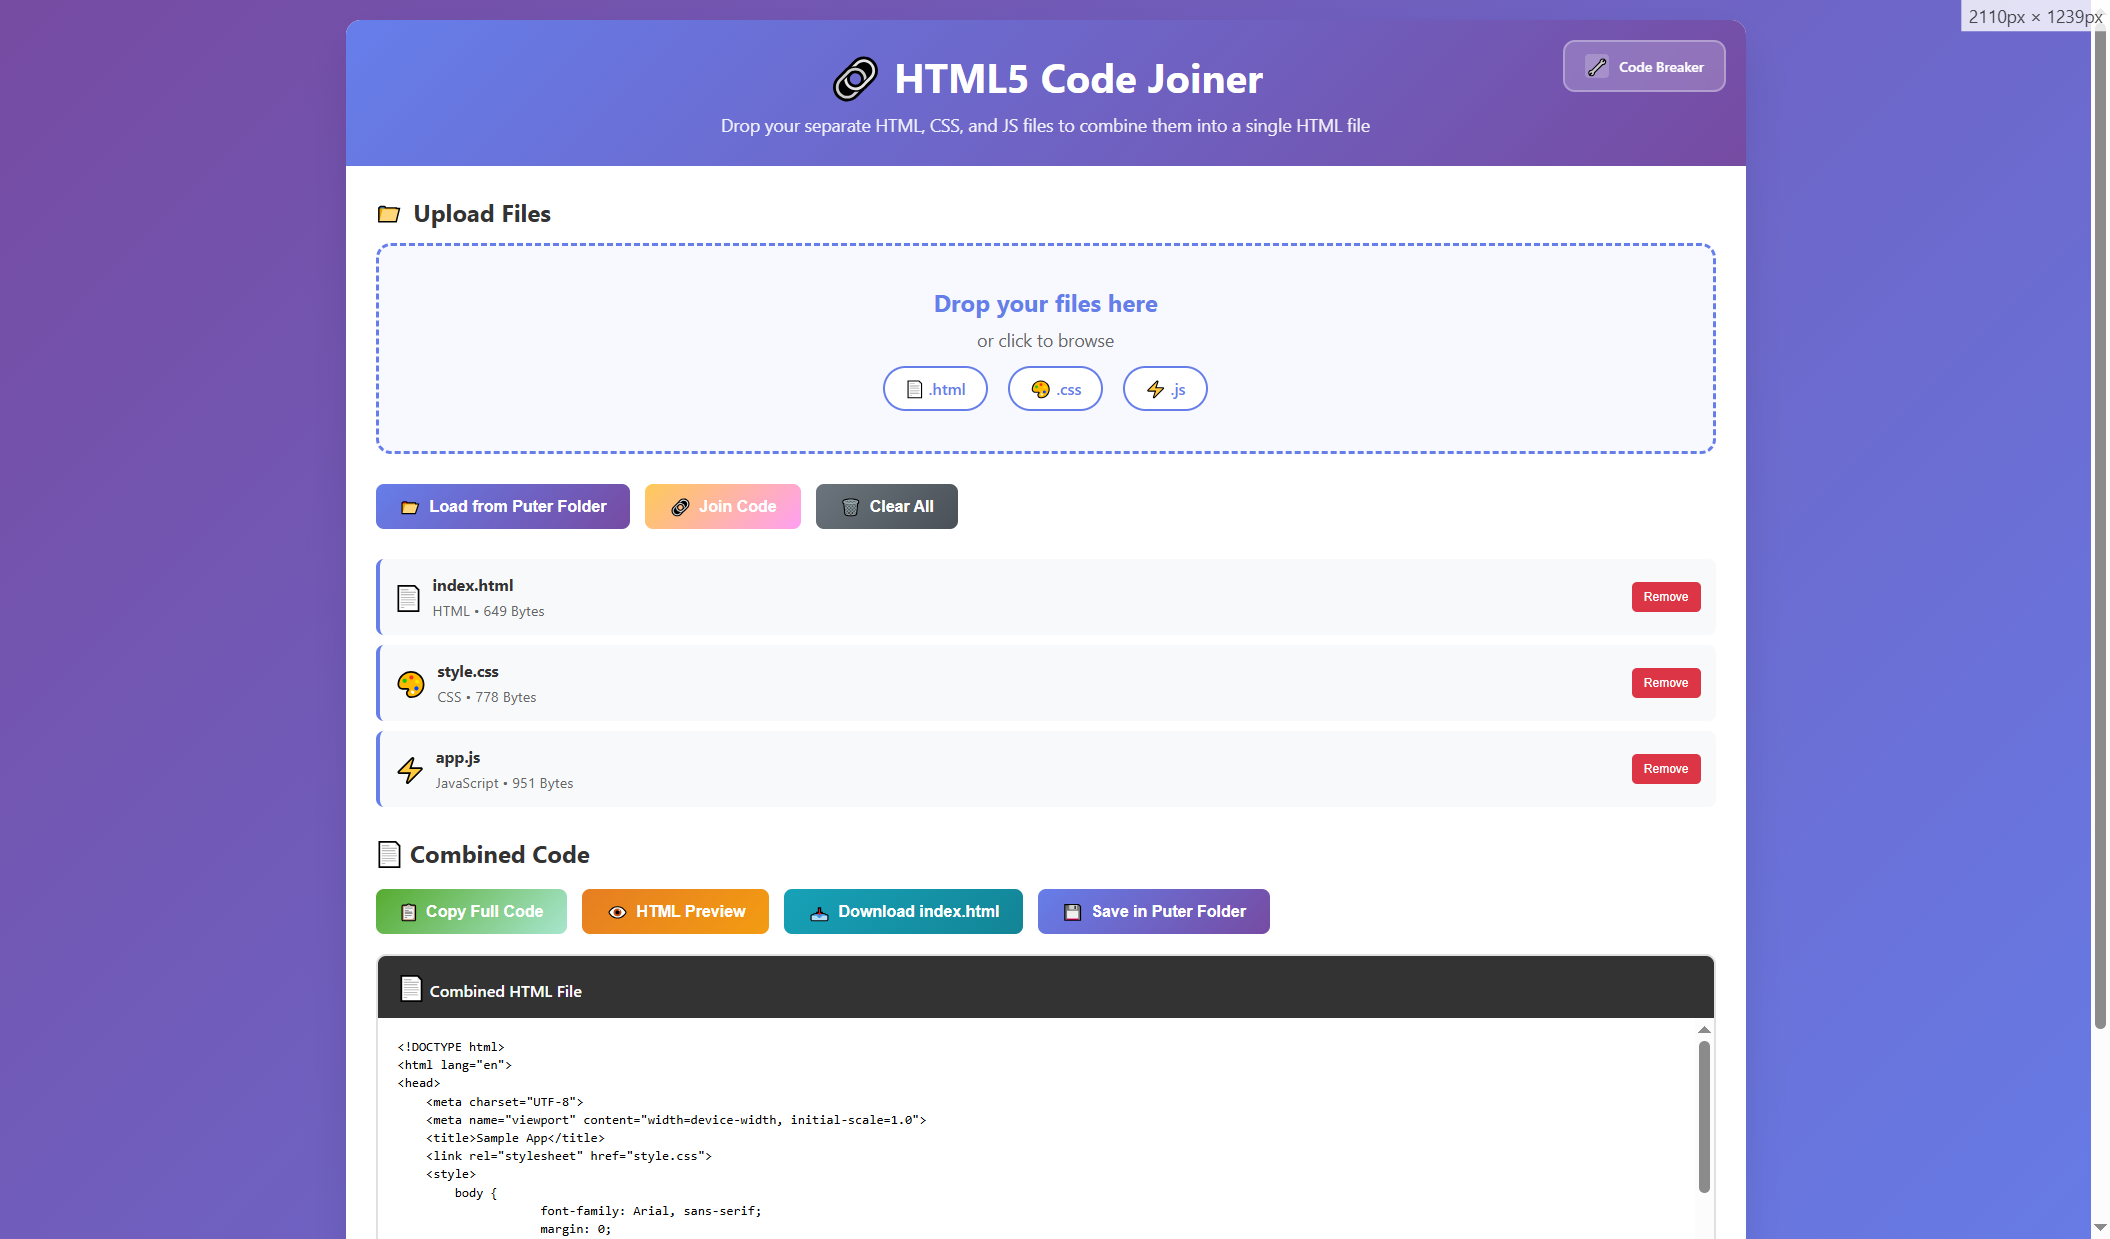
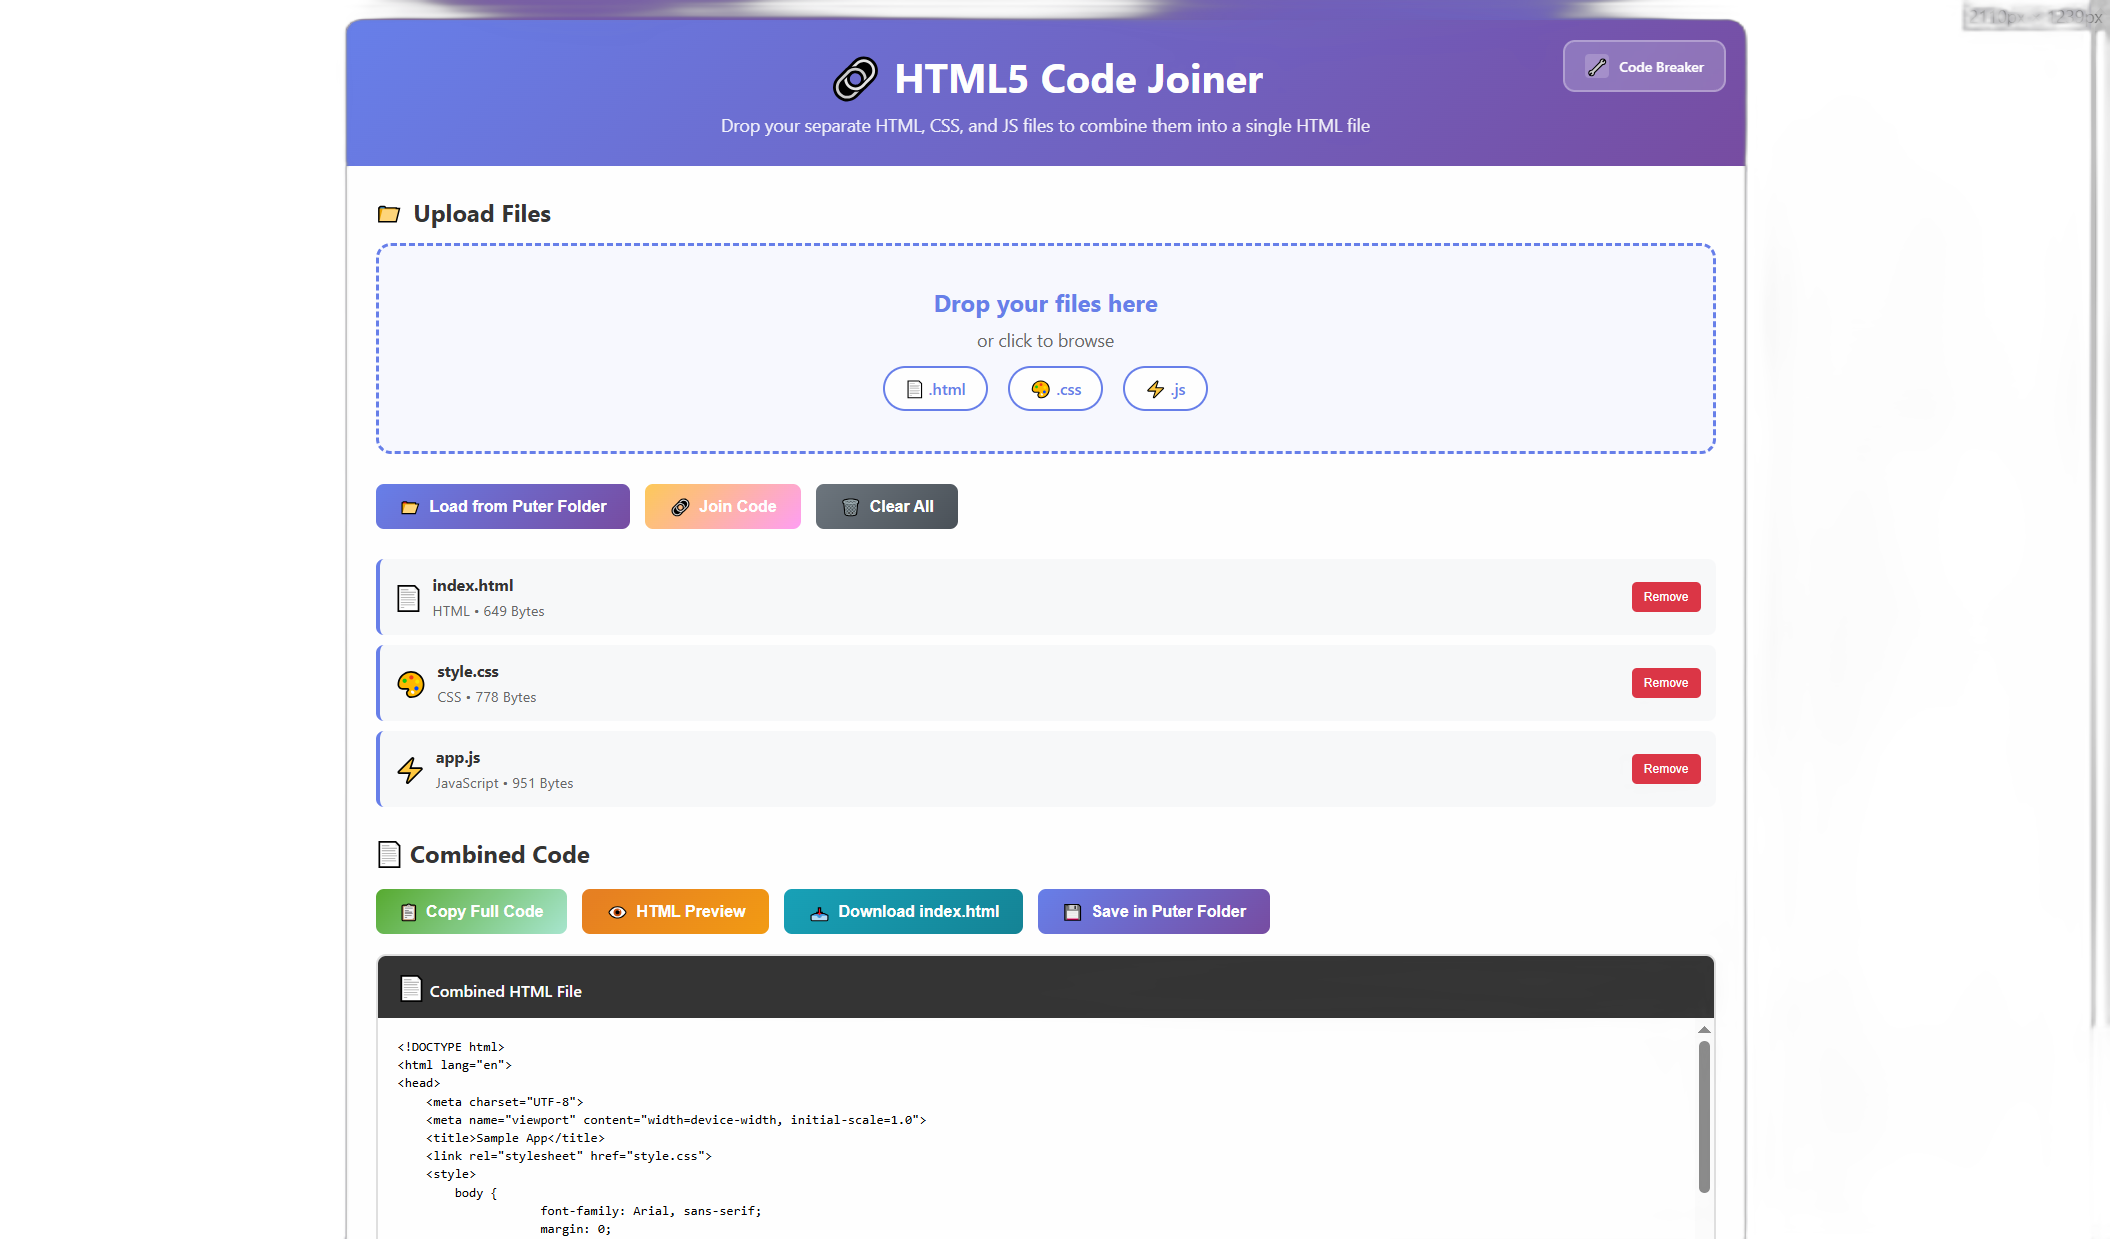
screenshot update

diff --git a/src/index.html b/src/index.html
@@ -15,6 +15,11 @@
                     <span>Code Breaker</span>
                 </a>
             </div>
+            <a href="https://github.com/Puter-Apps/code-joiner" target="_blank" rel="noopener noreferrer" class="github-link-top-right">
+                <svg width="16" height="16" viewBox="0 0 16 16" fill="currentColor" xmlns="http://www.w3.org/2000/svg" style="margin-right: 6px; vertical-align: text-bottom;">
+                    <path fill-rule="evenodd" clip-rule="evenodd" d="M8 0C3.58 0 0 3.58 0 8C0 11.54 2.29 14.53 5.47 15.59C5.87 15.66 6.02 15.42 6.02 15.21C6.02 15.02 6.01 14.39 6.01 13.72C4 14.09 3.48 13.23 3.32 12.78C3.23 12.55 2.84 11.84 2.5 11.65C2.22 11.5 1.82 11.13 2.49 11.12C3.12 11.11 3.57 11.7 3.72 11.94C4.44 13.15 5.59 12.81 6.05 12.6C6.12 12.08 6.33 11.73 6.56 11.53C4.78 11.33 2.92 10.64 2.92 7.58C2.92 6.71 3.23 5.99 3.74 5.43C3.66 5.23 3.38 4.41 3.82 3.31C3.82 3.31 4.49 3.1 6.02 4.13C6.66 3.95 7.34 3.86 8.02 3.86C8.7 3.86 9.38 3.95 10.02 4.13C11.55 3.09 12.22 3.31 12.22 3.31C12.66 4.41 12.38 5.23 12.3 5.43C12.81 5.99 13.12 6.7 13.12 7.58C13.12 10.65 11.25 11.33 9.47 11.53C9.76 11.78 10.01 12.26 10.01 13.01C10.01 14.08 10 14.94 10 15.21C10 15.42 10.15 15.67 10.55 15.59C13.71 14.53 16 11.53 16 8C16 3.58 12.42 0 8 0Z" />
+                </svg>View on GitHub
+            </a>
             <h1>🔗 HTML5 Code Joiner</h1>
             <p>Drop your separate HTML, CSS, and JS files to combine them into a single HTML file</p>
         </div>

diff --git a/src/style.css b/src/style.css
@@ -51,6 +51,33 @@
             backdrop-filter: blur(10px);
         }
 
+        .github-link-top-right {
+            position: absolute;
+            top: 72px; /* Positioned below existing .header-nav */
+            right: 20px;
+            background-color: rgba(255, 255, 255, 0.15);
+            color: white;
+            padding: 6px 10px;
+            border-radius: 5px;
+            text-decoration: none;
+            font-size: 0.85em;
+            font-weight: 500;
+            border: 1px solid rgba(255, 255, 255, 0.25);
+            transition: background-color 0.3s ease, border-color 0.3s ease;
+            z-index: 10;
+            display: inline-flex;
+            align-items: center;
+        }
+
+        .github-link-top-right:hover {
+            background-color: rgba(255, 255, 255, 0.3);
+            border-color: rgba(255, 255, 255, 0.4);
+        }
+
+        .github-link-top-right svg {
+            fill: currentColor;
+        }
+
         .app-link-btn:hover {
             background: rgba(255, 255, 255, 0.3);
             border-color: rgba(255, 255, 255, 0.5);
